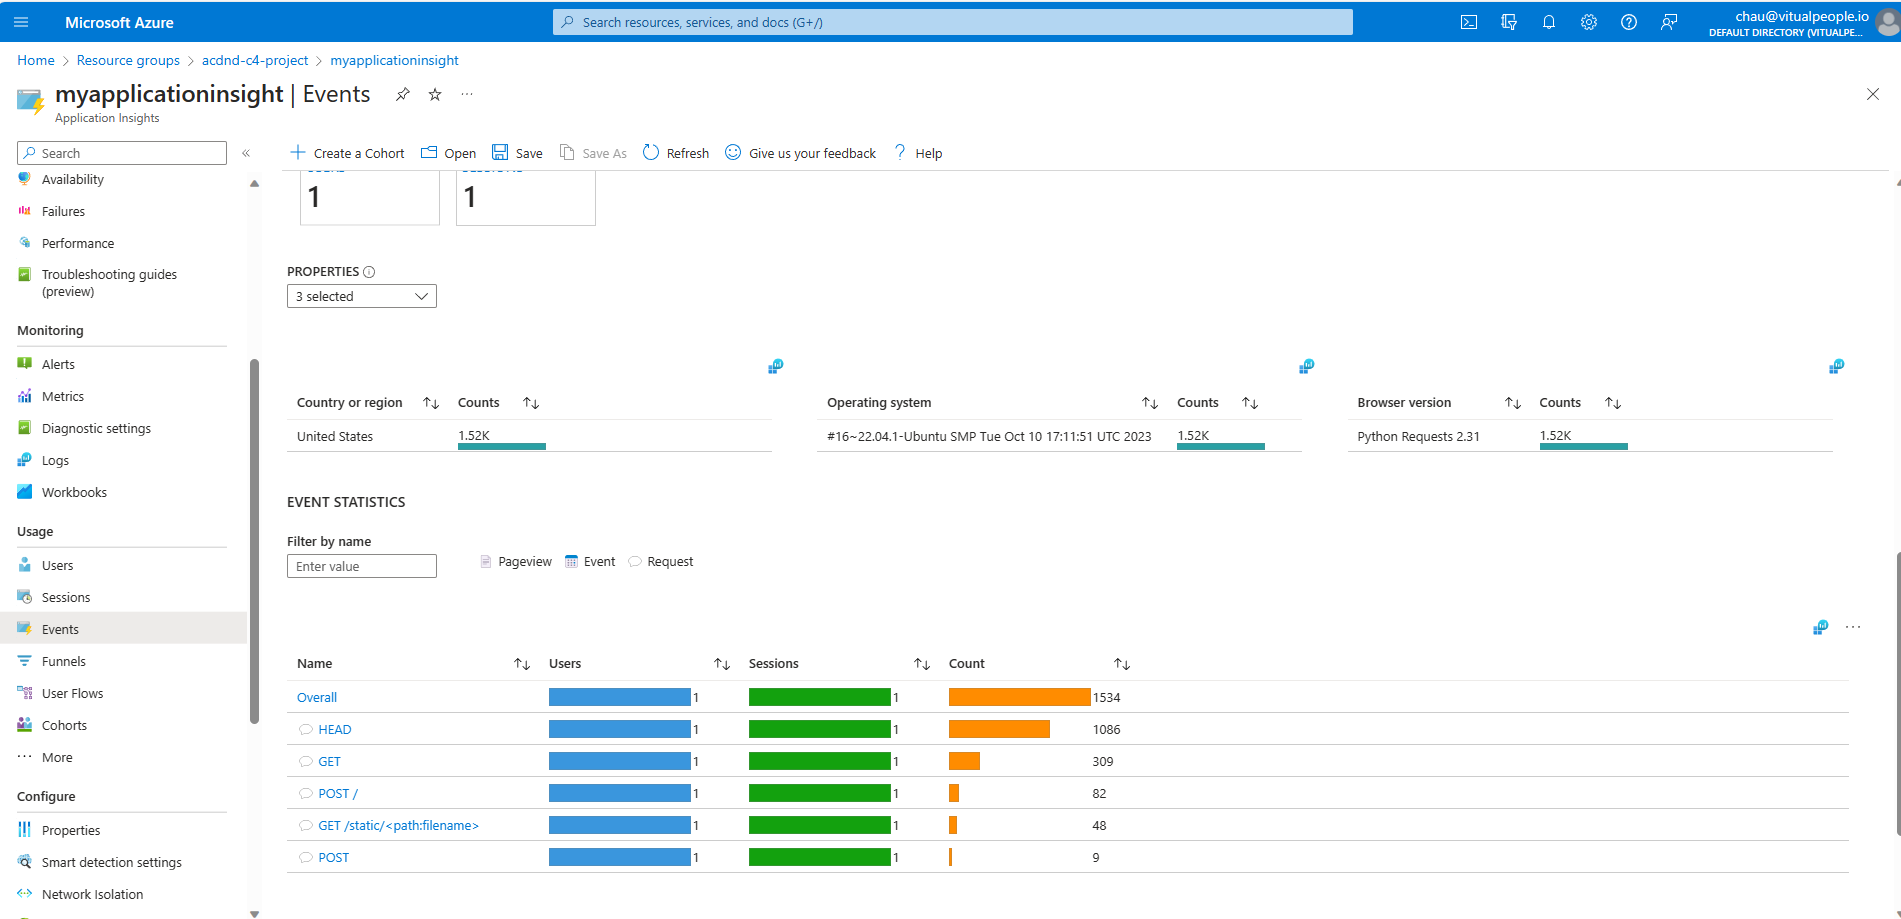
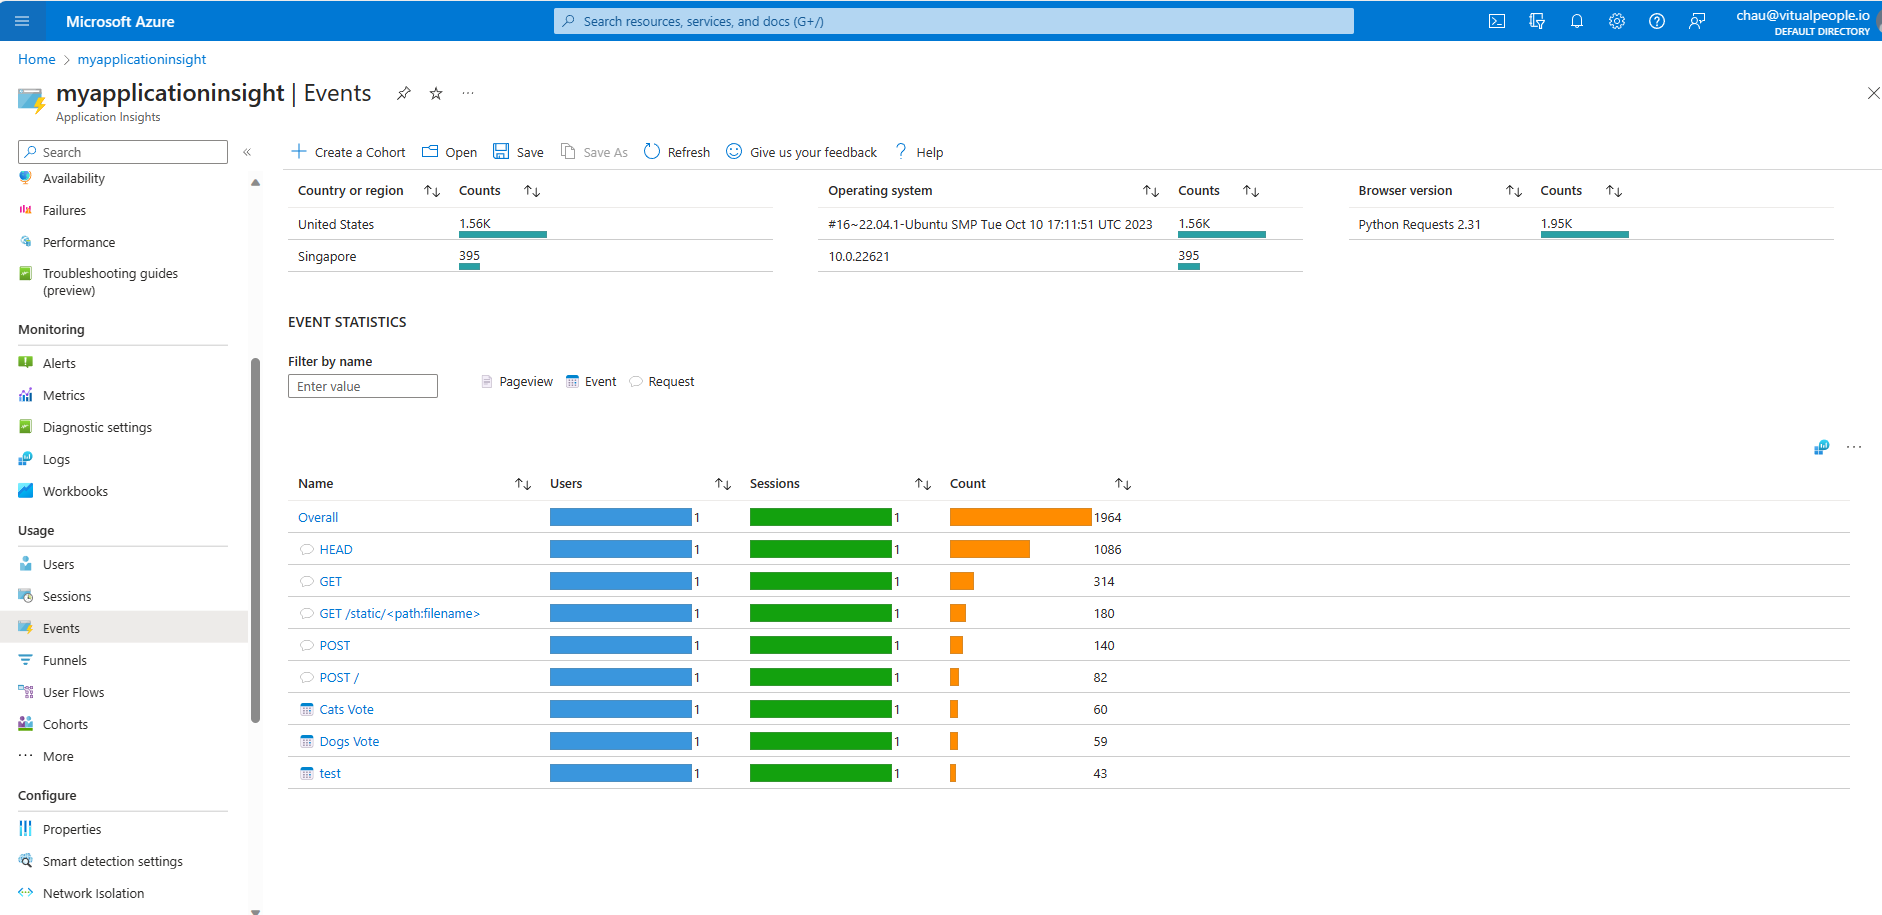
update source code

diff --git a/azure-vote/main.py b/azure-vote/main.py
@@ -87,8 +87,6 @@ if not r.get(button2): r.set(button2,0)
 
 @app.route('/', methods=['GET', 'POST'])
 def index():
-
-    tracer.span(name=f"Test Tracing")
     print(f"Request Method: {request.method}")
     if request.method == 'GET':
 
@@ -97,14 +95,16 @@ def index():
         # use tracer object to trace cat vote
         tracer.span(name=f"Total {button1} voted: {vote1}")
         with tracer.span(name="Cats Vote") as span:
-            print("Cats Vote")
+             logger.info("Cats Vote")
+
         print(f"Cats voted: {vote1}")
 
         vote2 = r.get(button2).decode('utf-8')
         # use tracer object to trace dog vote
         tracer.span(name=f"{button2} voted: {vote2}")
         with tracer.span(name="Dogs Vote") as span:
-            print("Dogs Vote")
+            logger.info("Dogs Vote")
+
         print(f"Dogs voted: {vote2}")
 
         # Return index with values
@@ -123,15 +123,15 @@ def index():
             if vote1 > vote2:
                 properties = {'custom_dimensions': {'Cats Vote': vote1}}
                 # use logger object to log cat vote
-                logger.warning(f'{button1} Vote', extra=properties)
+                logger.info(f'{button1} Vote', extra=properties)
             elif vote1 < vote2:
                 properties = {'custom_dimensions': {'Dogs Vote': vote2}}
                 # use logger object to log dog vote
-                logger.warning(f'{button2} Vote', extra=properties)
+                logger.info(f'{button2} Vote', extra=properties)
             else:
                 properties = {'custom_dimensions': {'Tie': vote1}}
                 # use logger object to log tie
-                logger.warning(f'Tie', extra=properties)
+                logger.info(f'Tie', extra=properties)
 
             return render_template("index.html", value1=int(vote1), value2=int(vote2), button1=button1, button2=button2, title=title)
 
@@ -143,7 +143,12 @@ def index():
 
             # Get current values
             vote1 = r.get(button1).decode('utf-8')
+            properties = {"custom_dimensions": {"Cats Vote": vote1}}
+            logger.info("Cats Vote", extra=properties)
+
             vote2 = r.get(button2).decode('utf-8')
+            properties = {"custom_dimensions": {"Dogs Vote": vote2}}
+            logger.info("Dogs Vote", extra=properties)
 
             # Return results
             return render_template("index.html", value1=int(vote1), value2=int(vote2), button1=button1, button2=button2, title=title)
